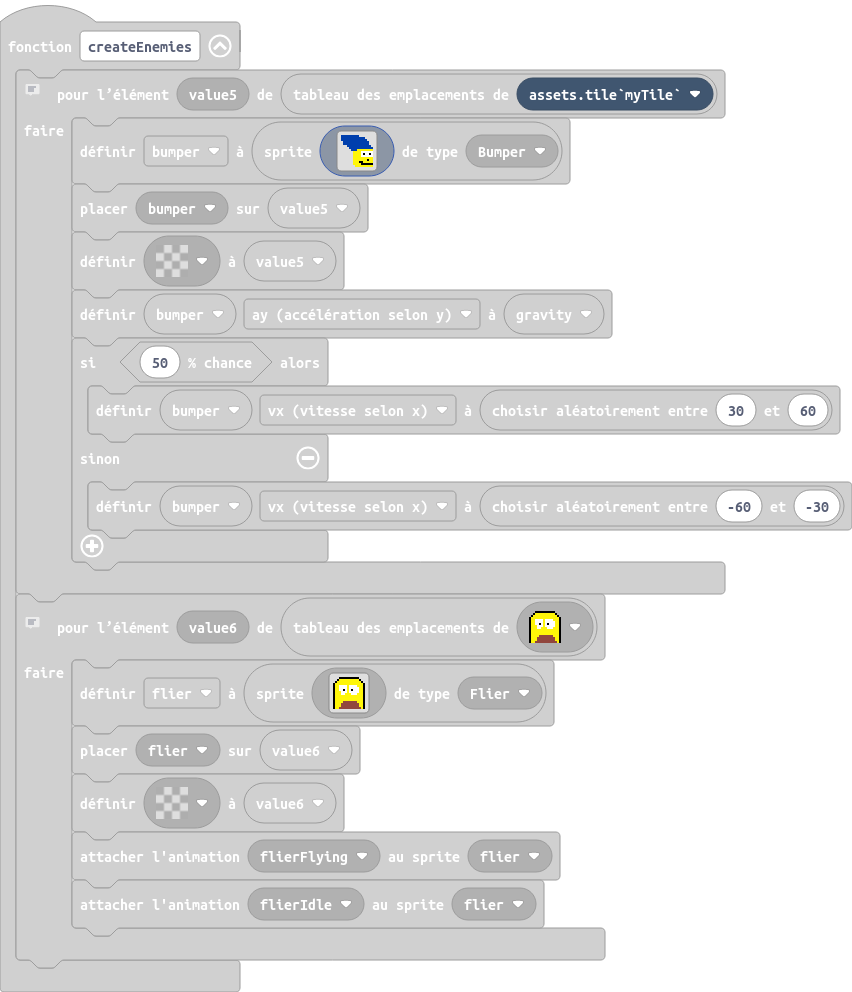
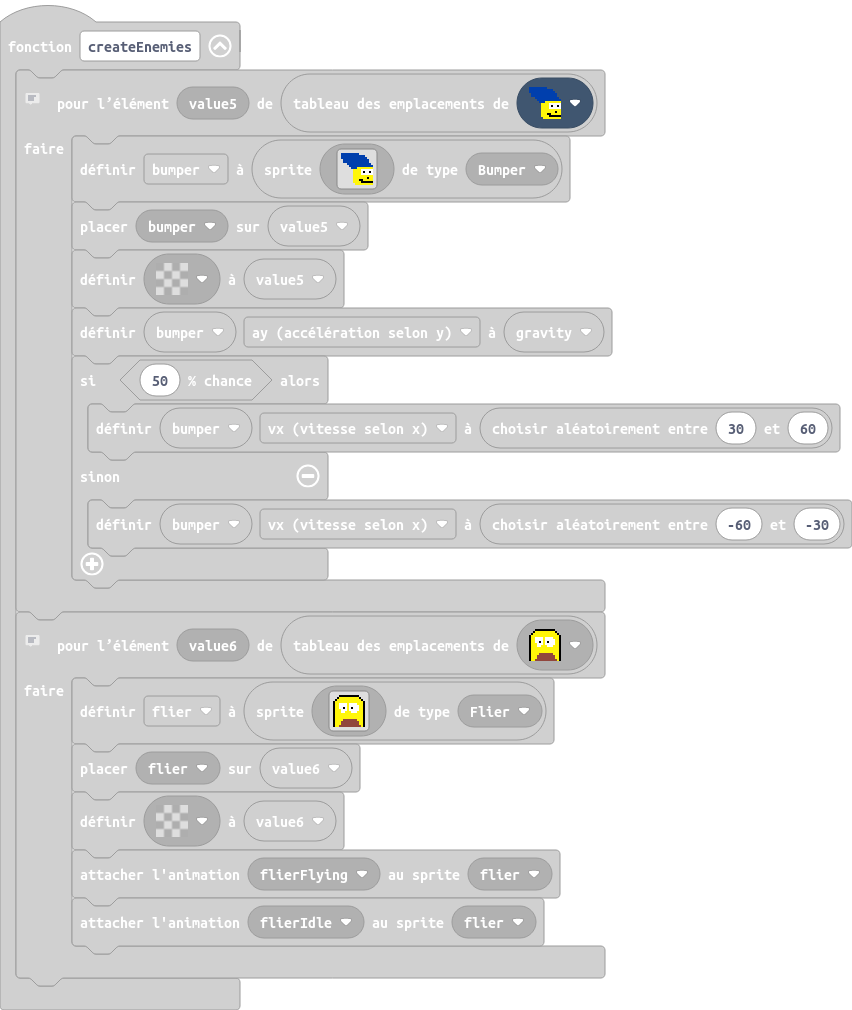
bug de marche à résoudre !

Changed region(s): [[0.0305, 0.0312, 1.0, 0.9375], [0.0305, 0.0625, 0.061, 0.0938]]

diff --git a/images.g.ts b/images.g.ts
@@ -22,25 +22,6 @@ namespace myImages {
 . . . . . . . . . . . . . . . . 
 . . . . . . . . . . . . . . . . 
 `;
-            case "image2":
-            case "norsys":return img`
-7 7 f f f f f f f f f f f f 7 7 
-7 7 f f f f f f f f f f f f f 7 
-7 f f f f f 8 8 8 8 8 f f f f f 
-7 f f f f 8 f f f f f 8 f f f f 
-7 f f f f 8 f f f f f 8 f f f f 
-f f f 7 7 7 7 7 f 2 2 2 2 2 f f 
-f f 7 f f 8 f f 2 f f 8 f f 2 f 
-f f 7 f f 8 f f 7 f f 8 f f 2 f 
-f f 7 f f f 8 8 8 8 8 f f f 2 f 
-f f 7 f f f f f 8 f f f f f 2 f 
-f f 7 f f f f f 8 f f f f f 2 f 
-f f f 7 7 7 7 7 8 2 2 2 2 2 f f 
-f f f f f f f 7 8 2 f f f f f f 
-f f f f 8 8 8 7 8 2 f f f f f f 
-f f f 8 8 f 7 7 2 2 f f f f f 7 
-7 7 f 8 f 7 7 2 2 f f f f f 7 7 
-`;
             case "image3":
             case "myImage0":return img`
 . . . . . . . . . . . . . . . . 
@@ -78,6 +59,25 @@ f f f 8 8 f 7 7 2 2 f f f f f 7
 . . . . . f f f f f f . . . . . 
 . . . . f f f f f f f f . . . . 
 . . . f f f f f f f f f f . . . 
+`;
+            case "image2":
+            case "norsys":return img`
+7 7 f f f f f f f f f f f f 7 7 
+7 7 f f f f f f f f f f f f f 7 
+7 f f f f f 8 8 8 8 8 f f f f f 
+7 f f f f 8 f f f f f 8 f f f f 
+7 f f f f 8 f f f f f 8 f f f f 
+f f f 7 7 7 7 7 f 2 2 2 2 2 f f 
+f f 7 f f 8 f f 2 f f 8 f f 2 f 
+f f 7 f f 8 f f 7 f f 8 f f 2 f 
+f f 7 f f f 8 8 8 8 8 f f f 2 f 
+f f 7 f f f f f 8 f f f f f 2 f 
+f f 7 f f f f f 8 f f f f f 2 f 
+f f f 7 7 7 7 7 8 2 2 2 2 2 f f 
+f f f f f f f 7 8 2 f f f f f f 
+f f f f 8 8 8 7 8 2 f f f f f f 
+f f f 8 8 f 7 7 2 2 f f f f f 7 
+7 7 f 8 f 7 7 2 2 f f f f f 7 7 
 `;
         }
         return null;

diff --git a/main.ts b/main.ts
@@ -401,7 +401,7 @@ sprites.onOverlap(SpriteKind.Player, SpriteKind.Coin, function (sprite2, otherSp
 })
 function createEnemies () {
     // enemy that moves back and forth
-    for (let value5 of tiles.getTilesByType(assets.tile`myTile`)) {
+    for (let value5 of tiles.getTilesByType(assets.tile`myTille`)) {
         bumper = sprites.create(img`
             8 8 8 8 8 8 8 8 8 . . . . . . . 
             8 8 8 8 8 8 8 8 8 8 8 8 . . . . 
@@ -857,6 +857,12 @@ game.onUpdate(function () {
         animation.setAction(hero, ActionKind.IdleRight)
     }
 })
+// Reset double jump when standing on wall
+game.onUpdate(function () {
+    if (hero.isHittingTile(CollisionDirection.Bottom)) {
+        canDoubleJump = true
+    }
+})
 // Flier movement
 game.onUpdate(function () {
     for (let value8 of sprites.allOfKind(SpriteKind.Flier)) {
@@ -877,12 +883,6 @@ game.onUpdate(function () {
             value8.vx = 0
             animation.setAction(value8, ActionKind.Idle)
         }
-    }
-})
-// Reset double jump when standing on wall
-game.onUpdate(function () {
-    if (hero.isHittingTile(CollisionDirection.Bottom)) {
-        canDoubleJump = true
     }
 })
 // bumper movement
